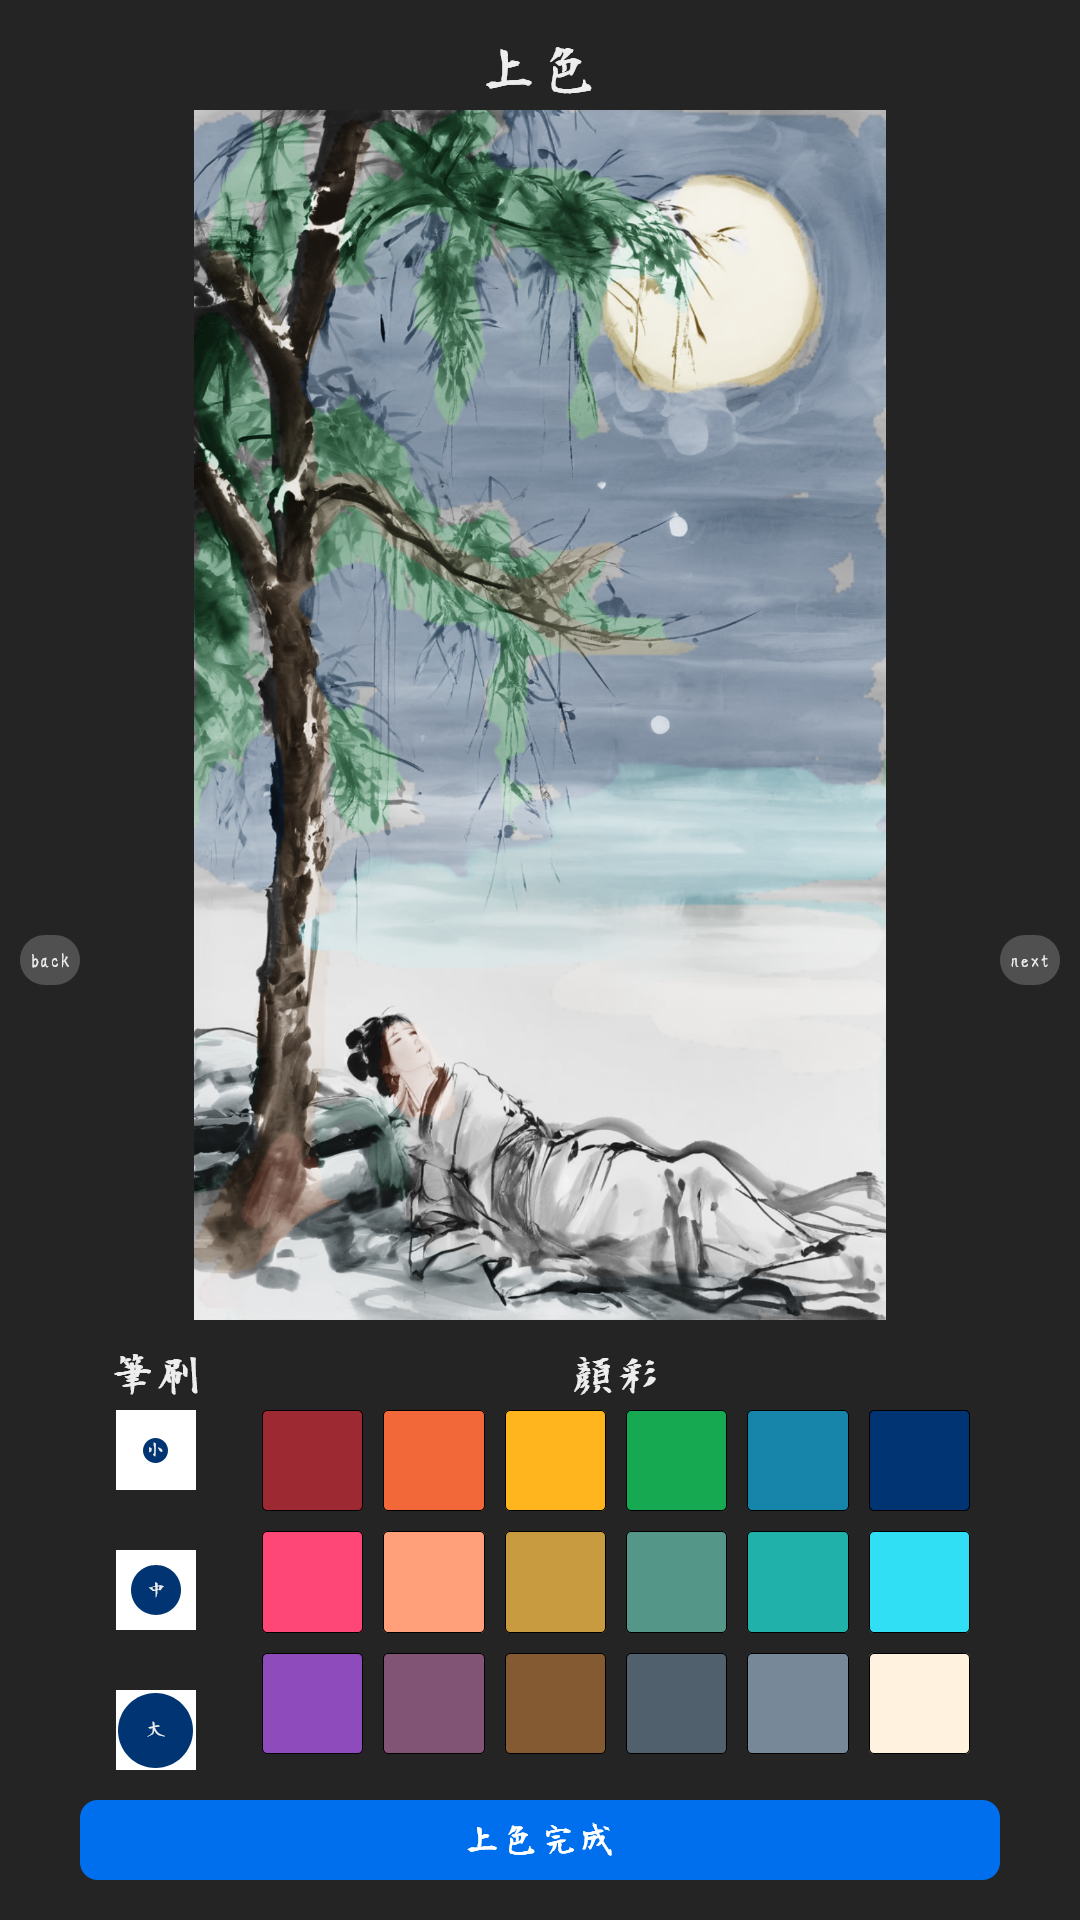
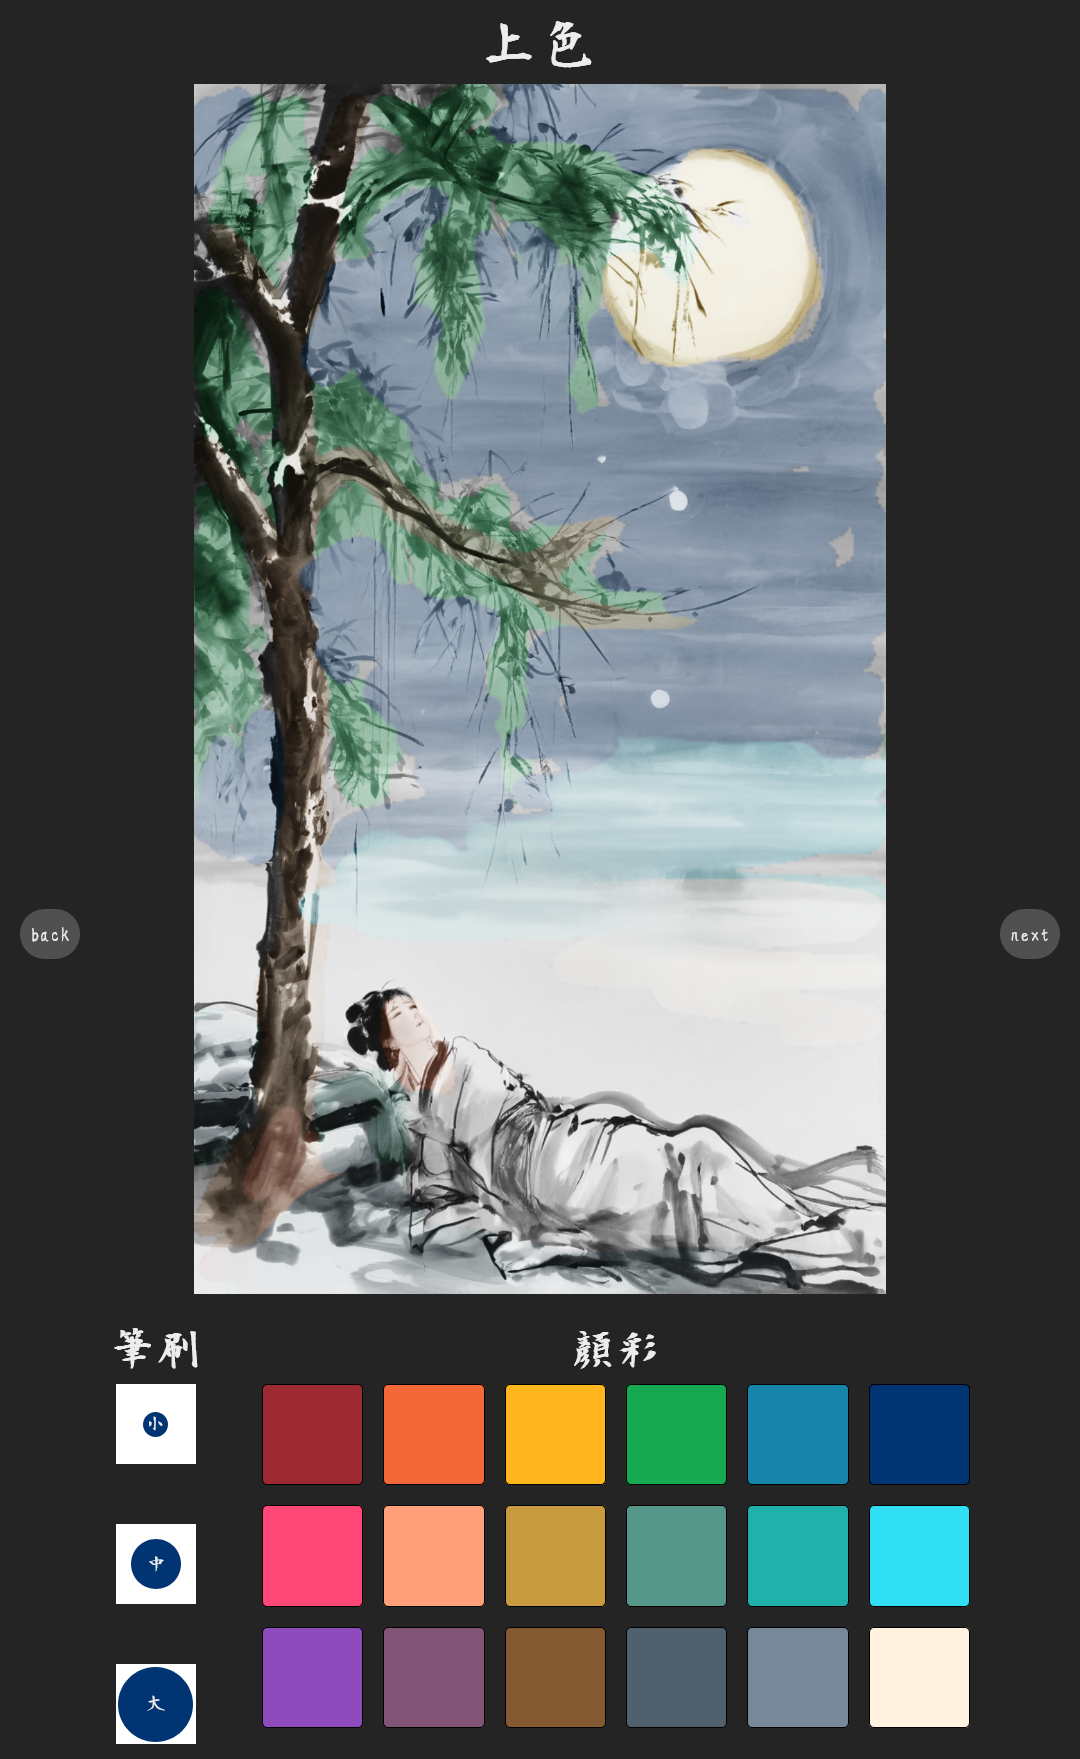
ok

diff --git a/src/pages/Select_Poetry_Page.jsx b/src/pages/Select_Poetry_Page.jsx
@@ -28,8 +28,8 @@ export default function Select_Poetry_Page() {
     const { goToPage } = usePageNavigation();
     return (
         // 1024px
-        <div className='flex flex-col px-8 h-full'>
-
+        <div className='flex flex-col p-8 h-full'>
+<Text type="title">唐詩集</Text>
             <PoetryList setPrompt={setPrompt} />
             <div className='mt-4'><Poetry /></div>
             <PoetryAppreciation></PoetryAppreciation>

diff --git a/src/pages/Paint_Page.jsx b/src/pages/Paint_Page.jsx
@@ -30,7 +30,7 @@ import { useP5Color } from '../contexts/p5ColorContext';
 const colors = [
     '#9d2933', '#f36838', '#ffb61e', '#16a951', '#1685a9', '#003472',
     '#ff4777', '#FFA07A', '#c89b40', '#549688', '#20B2AA', '#30dff3',
-    '#8d4bbb', '#815476', '#845a33', '#50616d',  '#778899', '#fff2df'
+    '#8d4bbb', '#815476', '#845a33', '#50616d',  '#778899', '#ffffff'
 
 ];
 

diff --git a/src/components/PoetryList.jsx b/src/components/PoetryList.jsx
@@ -19,7 +19,7 @@ const PoetryList = ({ setPrompt }) => {
 
     return (
         <div className="w-full ">
-            <h1 className="font-bold mb-6 text-center text-6xl">唐詩集</h1>
+            
 
 
             {/* 詩歌列表 */}

diff --git a/src/components/Poetry.jsx b/src/components/Poetry.jsx
@@ -10,7 +10,7 @@ const PoetryList = () => {
 
 
   return (
-    <div className="container mx-auto ">
+    <div className="w-full mx-auto ">
       {/* 詩歌內容 */}
       <Card >
         
